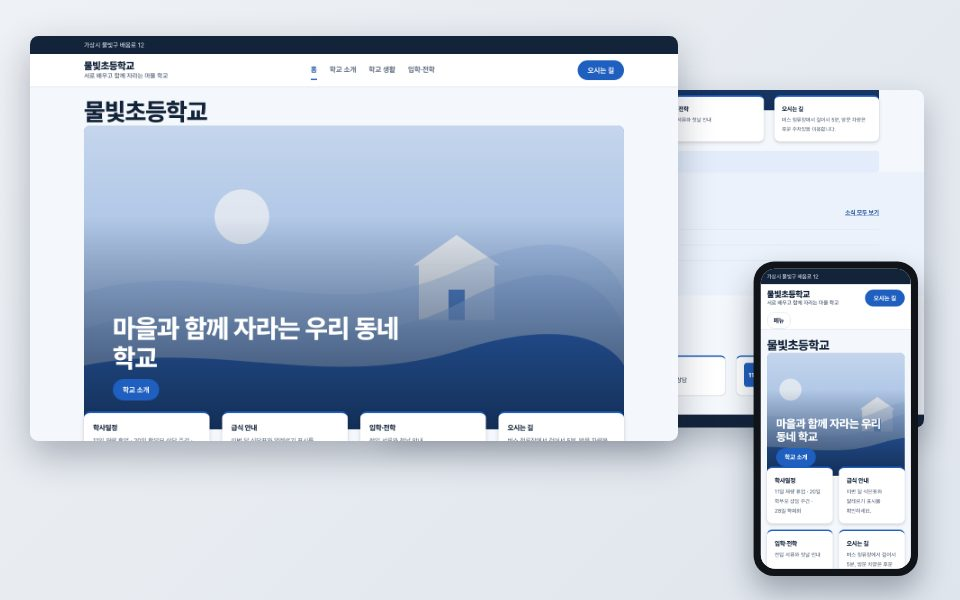
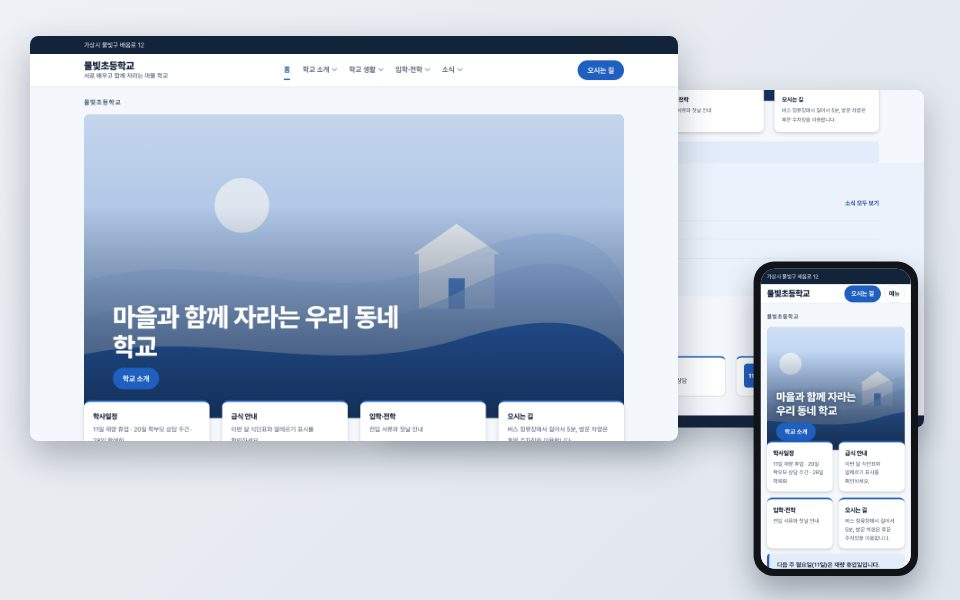
126차: 알림형 템플릿 두 단계 메뉴 적용(v4)
학교 소개(인사말·교육 목표·연혁·학교 상징·오시는 길) · 학교 생활(학사일정·급식·방과후·상담 신고)
· 입학·전학(절차·서류·문의) · 소식 > 가정통신문(새 쪽). 템플릿 미리보기는 예시 소식이 있으면 '소식' 상위 메뉴를 보인다.

Claude-Session: https://claude.ai/code/session_013RZyUom6xS67hpTPYHpecQ

diff --git a/src/lib/site-templates.ts b/src/lib/site-templates.ts
@@ -67,7 +67,7 @@ const commonSlots = (): Slot[] => [
 
 export const SITE_TEMPLATES: SiteTemplate[] = [
   {
-    key: 'notice', version: 3, name: '알림 중심형', theme: 'clear', langs: ['ko'],
+    key: 'notice', version: 4, name: '알림 중심형', theme: 'clear', langs: ['ko'],
     summary: '재학생 가정이 매일 찾는 알림·소식·학사일정·급식을 첫 화면에 둡니다.',
     fits: ['공립·지역 학교', '재학생 가정이 주 방문자', '공지가 많은 학교'], firstScreen: '알림 · 최근 소식 · 학사일정 · 급식',
     mustHave: ['학교 소개(인사말·연혁·교육목표)', '학사일정', '오시는 길', '입학·전학 안내'],
@@ -87,21 +87,30 @@ export const SITE_TEMPLATES: SiteTemplate[] = [
         events('알림', '이번 달 학사일정'),
       ], { site: contact({ label: '오시는 길', href: '/p/about' }) }),
       page('about', 1, ko('학교 소개'), [
-        section({ template: 'text', title: ko('인사말'), body: ko('[교장 인사말 3~5문장]') }),
-        section({ template: 'facts', title: ko('교육 목표'), items: [{ title: ko('[교육 목표 1]'), body: ko('[설명]') }, { title: ko('[교육 목표 2]'), body: ko('[설명]') }] }),
-        section({ template: 'steps', title: ko('연혁'), items: [{ title: ko('[연도]'), body: ko('[개교·주요 일]') }, { title: ko('[연도]'), body: ko('[주요 일]') }] }),
-        section({ template: 'text', title: ko('오시는 길'), body: ko('[주소·대중교통·주차]') }),
+        section({ anchor: 'greeting', template: 'text', title: ko('인사말'), body: ko('[교장 인사말 3~5문장]') }),
+        section({ anchor: 'goals', template: 'facts', title: ko('교육 목표'), items: [{ title: ko('[교육 목표 1]'), body: ko('[설명]') }, { title: ko('[교육 목표 2]'), body: ko('[설명]') }] }),
+        section({ anchor: 'history', template: 'steps', title: ko('연혁'), items: [{ title: ko('[연도]'), body: ko('[개교·주요 일]') }, { title: ko('[연도]'), body: ko('[주요 일]') }] }),
+        // 126차(ADR 0046): 학교 소개 아래 하위 메뉴 — 구역마다 메뉴 주소
+        section({ anchor: 'symbols', template: 'cards', title: ko('학교 상징'), items: [1, 2, 3].map((i) => ({ title: ko(`[알림 상징 ${i}]`), body: ko(`[알림 상징 ${i} 설명]`) })) }),
+        section({ anchor: 'way', template: 'text', title: ko('오시는 길'), body: ko('[주소·대중교통·주차]') }),
       ]),
       page('school-life', 2, ko('학교 생활'), [
-        section({ template: 'facts', title: ko('학사일정'), items: [{ title: ko('[월]'), body: ko('[주요 일정]') }] }),
-        section({ template: 'text', title: ko('급식'), body: ko('[급식 운영 안내 · 이번 달 식단표는 PDF로 올려 주세요]') }),
-        section({ template: 'text', title: ko('방과후·돌봄'), body: ko('[운영 시간·신청 방법]') }),
+        section({ anchor: 'calendar', template: 'facts', title: ko('학사일정'), items: [{ title: ko('[월]'), body: ko('[주요 일정]') }] }),
+        section({ anchor: 'lunch', template: 'text', title: ko('급식'), body: ko('[급식 운영 안내 · 이번 달 식단표는 PDF로 올려 주세요]') }),
+        section({ anchor: 'afterschool', template: 'text', title: ko('방과후·돌봄'), body: ko('[운영 시간·신청 방법]') }),
+        section({ anchor: 'counsel', template: 'text', title: ko('상담·학교폭력 신고'), body: ko('[알림 상담 안내]') }),
       ]),
       page('admission', 3, ko('입학·전학'), [
-        section({ template: 'steps', title: ko('입학·전학 절차'), items: [{ title: ko('문의'), body: ko('[알림 입학 문의]') }, { title: ko('서류 제출'), body: ko('[알림 입학 서류]') }, { title: ko('배정·안내'), body: ko('[알림 배정 안내]') }] }),
-        section({ template: 'facts', title: ko('준비할 서류'), items: [{ title: ko('[알림 서류 1]'), body: ko('[알림 서류 1 설명]') }, { title: ko('[알림 서류 2]'), body: ko('[알림 서류 2 설명]') }] }),
-        section({ template: 'cta', title: ko('입학·전학 문의'), body: ko('[알림 입학 연락처]') }),
+        section({ anchor: 'process', template: 'steps', title: ko('입학·전학 절차'), items: [{ title: ko('문의'), body: ko('[알림 입학 문의]') }, { title: ko('서류 제출'), body: ko('[알림 입학 서류]') }, { title: ko('배정·안내'), body: ko('[알림 배정 안내]') }] }),
+        section({ anchor: 'documents', template: 'facts', title: ko('준비할 서류'), items: [{ title: ko('[알림 서류 1]'), body: ko('[알림 서류 1 설명]') }, { title: ko('[알림 서류 2]'), body: ko('[알림 서류 2 설명]') }] }),
+        section({ anchor: 'contact', template: 'cta', title: ko('입학·전학 문의'), body: ko('[알림 입학 연락처]') }),
       ]),
+      // 126차: 소식 아래 하위 쪽 — 가정통신문
+      page('letters', 4, ko('가정통신문'), [
+        section({ template: 'text', title: ko('가정통신문 보는 법'), body: ko('[알림 가정통신문 안내]') }),
+        section({ anchor: 'recent', template: 'cards', variant: 'events', title: ko('최근 가정통신문'), items: [1, 2, 3].map((i) => ({
+          tag: ko(`[알림 통신문 ${i} 날짜]`), title: ko(`[알림 통신문 ${i}]`), body: ko(`[알림 통신문 ${i} 안내]`) })) }),
+      ], { menu: { parent: 'news' } }),
     ],
     slots: [
       ...commonSlots(),

diff --git a/src/lib/site-template-samples.ts b/src/lib/site-template-samples.ts
@@ -50,6 +50,15 @@ export const TEMPLATE_SAMPLES: Record<string, TemplateSample> = {
       '[주요 일정]': '11일 재량 휴업 · 20~24일 학부모 상담 주간 · 28일 학예회',
       '[급식 운영 안내 · 이번 달 식단표는 PDF로 올려 주세요]': '점심은 학교 급식실에서 직접 조리합니다. 이번 달 식단표는 첨부 파일로 올려 두었습니다.',
       '[운영 시간·신청 방법]': '방과후 수업은 오후 1시 50분부터 4시까지, 돌봄교실은 오후 6시까지 운영합니다. 신청은 학기 시작 2주 전에 가정통신문으로 받습니다.',
+      // 126차(가상 예시): 학교 상징·상담·가정통신문
+      '[알림 상징 1]': '교표', '[알림 상징 1 설명]': '물방울 안에 새싹을 담아 함께 자라는 배움을 나타냅니다.',
+      '[알림 상징 2]': '교목 · 느티나무', '[알림 상징 2 설명]': '마을 어귀를 지켜 온 나무처럼 넉넉한 그늘이 되자는 뜻입니다.',
+      '[알림 상징 3]': '교화 · 개나리', '[알림 상징 3 설명]': '봄을 가장 먼저 알리는 밝은 마음을 닮자는 뜻입니다.',
+      '[알림 상담 안내]': '고민이 있으면 언제든 담임 선생님이나 상담실(2층)을 찾아 주세요. 학교폭력은 학교 대표 전화 000-000-0000 또는 117(학교폭력 신고 센터)로 알릴 수 있습니다. 알린 사람의 비밀은 지켜집니다.',
+      '[알림 가정통신문 안내]': '가정통신문은 아이 편으로 보내고, 같은 내용을 이 쪽과 소식에 올립니다. 회신이 필요한 통신문은 기한 안에 담임 선생님께 보내 주세요.',
+      '[알림 통신문 1 날짜]': '11.04', '[알림 통신문 1]': '학부모 상담 주간 신청', '[알림 통신문 1 안내]': '희망 시간을 11월 14일까지 회신해 주세요',
+      '[알림 통신문 2 날짜]': '10.28', '[알림 통신문 2]': '학예회 관람 안내', '[알림 통신문 2 안내]': '좌석 안내와 주차 방법',
+      '[알림 통신문 3 날짜]': '10.15', '[알림 통신문 3]': '겨울 방과후 수업 신청', '[알림 통신문 3 안내]': '과목별 시간표와 신청 방법',
     },
   },
   story: {

diff --git a/tests/site-templates-db.test.ts b/tests/site-templates-db.test.ts
@@ -30,7 +30,7 @@ describe('템플릿 적용', () => {
   it('없는 쪽만 시안으로 만들고, 있는 쪽은 건너뛰며, 공개하지 않는다', async () => {
     await asUser(A.userId, (db) => site.createEntry(db, A.schoolId, { kind: 'page', key: 'about', content: { title: { ko: '우리 학교가 이미 쓴 소개' }, blocks: [] } }));
     const r = await asUser(A.userId, (db) => tpl.applyTemplate(db, A.schoolId, 'notice'));
-    expect(r.created.map((c) => c.key)).toEqual(['home', 'school-life', 'admission']);
+    expect(r.created.map((c) => c.key)).toEqual(['home', 'school-life', 'admission', 'letters']);
     expect(r.skipped).toEqual(['about']);
     const entries = await asUser(A.userId, (db) => site.listEntries(db, A.schoolId));
     const about = entries.find((e) => e.key === 'about')!;
@@ -39,7 +39,7 @@ describe('템플릿 적용', () => {
       expect(e).toMatchObject({ live_version: null, latest_version: 1, status: 'draft' });
     }
     const home = await asUser(A.userId, (db) => site.getEntry(db, A.schoolId, r.created[0].id));
-    expect(home.versions[0].note).toBe('템플릿 알림 중심형 v3');
+    expect(home.versions[0].note).toBe('템플릿 알림 중심형 v4');
     expect(home.versions[0].content.site?.footer?.ko).toContain('[학교 이름]');
   });
 
@@ -73,7 +73,7 @@ describe('66차 학교 자료로 빈 칸 채우기', () => {
     expect(by.about).toMatchObject({ version: null, kept: ['goals'] }); // 학교가 먼저 쓴 소개 쪽(템플릿 블록 없음)은 그대로
     const entries = await asUser(A.userId, (db) => site.listEntries(db, A.schoolId));
     const home = entries.find((e) => e.key === 'home')!;
-    expect(home).toMatchObject({ live_version: null, meta: { template: 'notice@3' } });
+    expect(home).toMatchObject({ live_version: null, meta: { template: 'notice@4' } });
     const v = await asUser(A.userId, (db) => site.getEntry(db, A.schoolId, home.id));
     expect(v.versions[0].content.site?.address).toEqual({ ko: '경기도 예시시 꿈마을로 12' });
     expect(v.versions[0].note).toContain('자료로 빈 칸 채움');

diff --git a/src/app/templates/TemplateView.tsx b/src/app/templates/TemplateView.tsx
@@ -33,7 +33,7 @@ export async function TemplateView({ templateKey, sp, base, bare, tr }: {
   const home = pages.home;
   const site: PublicSite = {
     slug: `template-${t.key}`, school: view === 'sample' ? sample.school : '[학교 이름]', default_lang: fallback, langs: t.langs as Lang[], theme: t.theme,
-    title: home.title, stories: false, has_news: false,
+    title: home.title, stories: false, has_news: view === 'sample', // 126차: 예시 소식이 있으면 '소식' 상위 메뉴(그 아래 하위 쪽)를 보인다
     nav: navEntriesOf(t.pages.map((p) => ({ key: p.key, content: pages[p.key] }))),
   };
   const link = (path: string) => {
